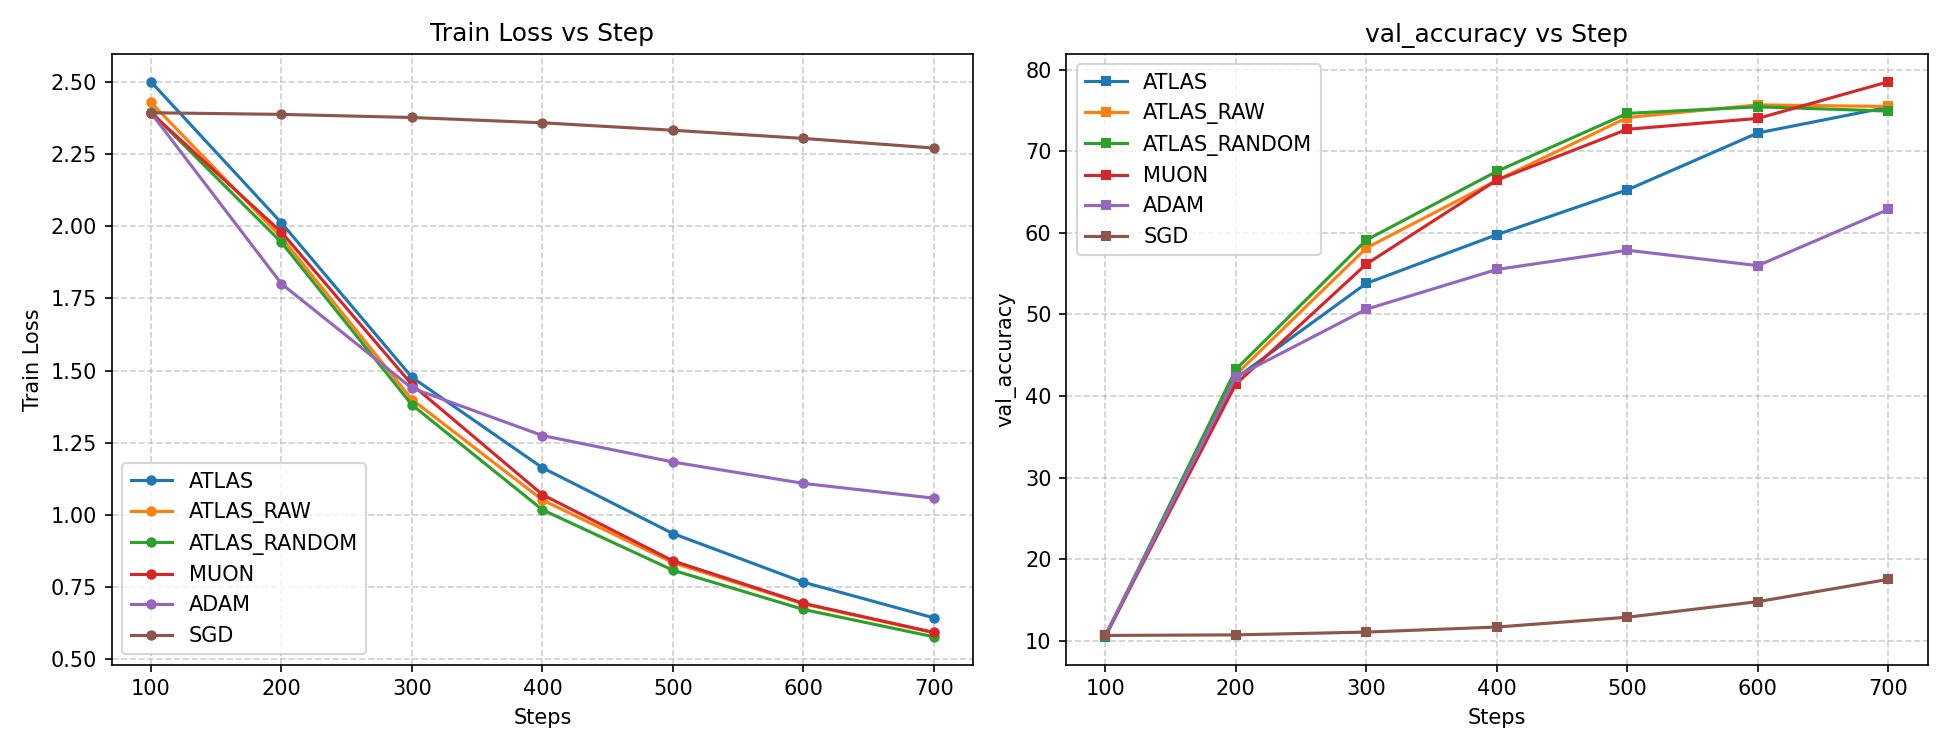
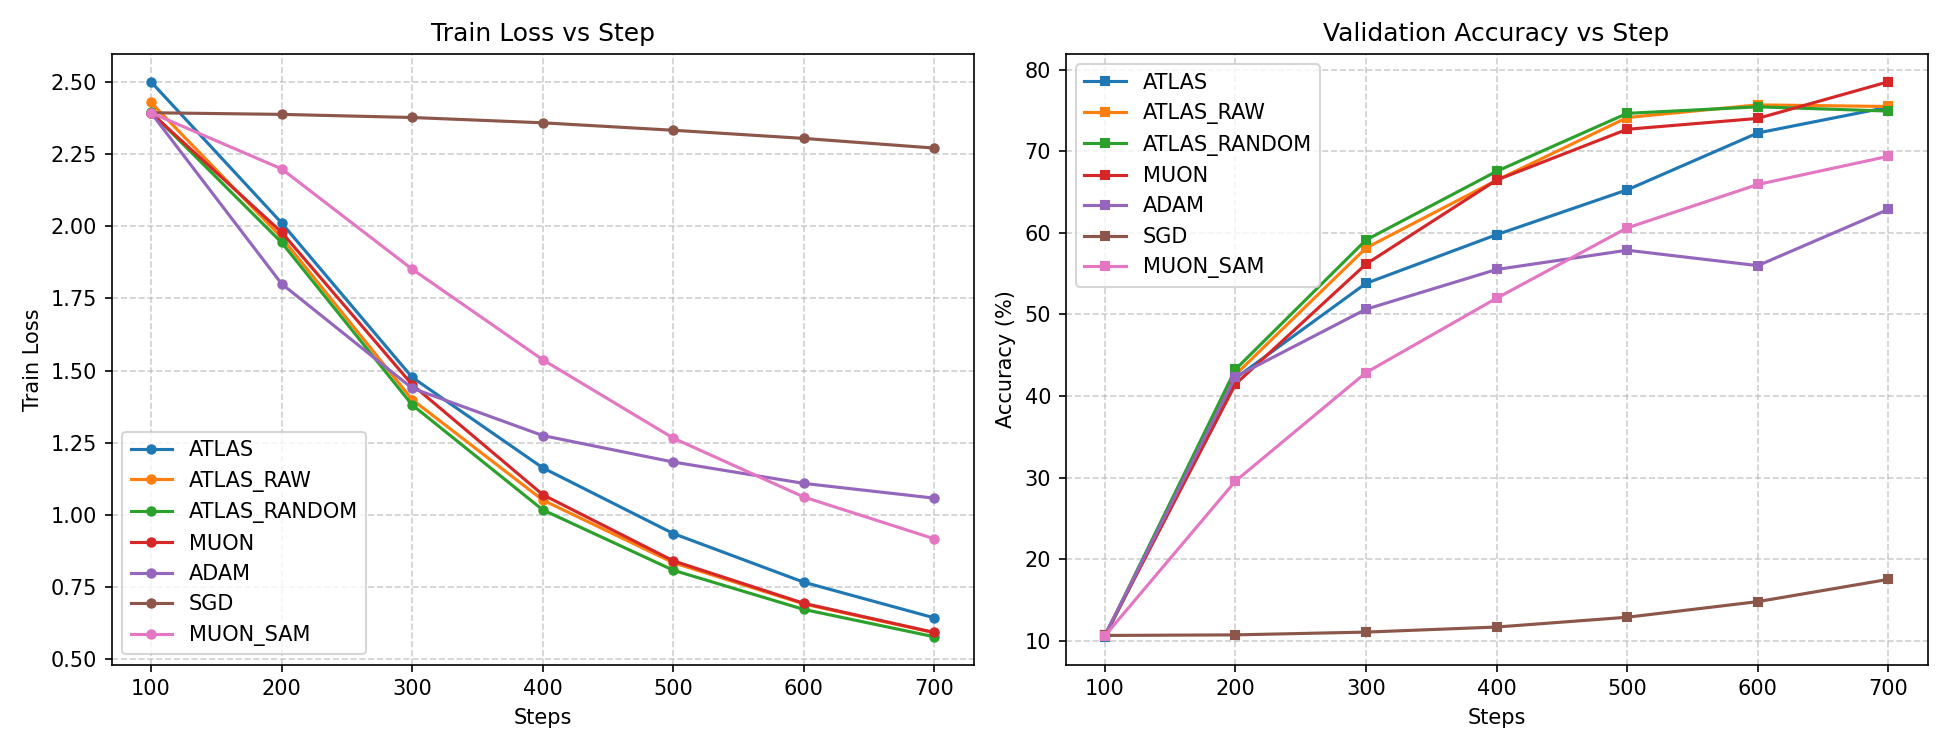
updated logs with sgd and muonsam

diff --git a/merge_logs.py b/merge_logs.py
@@ -1,0 +1,101 @@
+import os
+import pandas as pd
+import matplotlib.pyplot as plt
+
+def merge_and_plot():
+    os.chdir('final_logs')
+    
+    # 1. Merge CIFAR-10
+    if os.path.exists('run1_cifar10_logs.csv') and os.path.exists('run1_muonsam_cifar10_logs.csv'):
+        df_main = pd.read_csv('run1_cifar10_logs.csv')
+        df_muon = pd.read_csv('run1_muonsam_cifar10_logs.csv')
+        # Remove any existing muon_sam just in case
+        df_main = df_main[df_main['optimizer'] != 'muon_sam']
+        df_merged = pd.concat([df_main, df_muon], ignore_index=True)
+        df_merged.to_csv('run1_cifar10_logs.csv', index=False)
+        print("Merged CIFAR-10")
+
+    # 2. Merge NanoGPT
+    if os.path.exists('run2_nanogpt_logs.csv'):
+        df_main = pd.read_csv('run2_nanogpt_logs.csv')
+        
+        # Remove old SGD (matches sgd or sgd_euclidean)
+        df_main = df_main[~df_main['optimizer'].str.contains('sgd', na=False)]
+        
+        # Add new SGD fixed
+        if os.path.exists('run2_sgd_fixed_logs.csv'):
+            df_sgd = pd.read_csv('run2_sgd_fixed_logs.csv')
+            df_main = pd.concat([df_main, df_sgd], ignore_index=True)
+            
+        # Add muon_sam
+        if os.path.exists('run2_muonsam_nanogpt_logs.csv'):
+            df_muon = pd.read_csv('run2_muonsam_nanogpt_logs.csv')
+            df_main = df_main[df_main['optimizer'] != 'muon_sam']
+            df_main = pd.concat([df_main, df_muon], ignore_index=True)
+            
+        df_main.to_csv('run2_nanogpt_logs.csv', index=False)
+        print("Merged NanoGPT")
+
+    # 3. Merge Pythia
+    if os.path.exists('run3_pythia_logs.csv'):
+        df_main = pd.read_csv('run3_pythia_logs.csv')
+        
+        # Remove old SGD
+        df_main = df_main[~df_main['optimizer'].str.contains('sgd', na=False)]
+        
+        # Add new SGD fixed
+        if os.path.exists('run3_sgd_fixed_logs.csv'):
+            df_sgd = pd.read_csv('run3_sgd_fixed_logs.csv')
+            df_main = pd.concat([df_main, df_sgd], ignore_index=True)
+            
+        # Add muon_sam
+        if os.path.exists('run3_muonsam_pythia_logs.csv'):
+            df_muon = pd.read_csv('run3_muonsam_pythia_logs.csv')
+            df_main = df_main[df_main['optimizer'] != 'muon_sam']
+            df_main = pd.concat([df_main, df_muon], ignore_index=True)
+            
+        df_main.to_csv('run3_pythia_logs.csv', index=False)
+        print("Merged Pythia")
+
+    # Now replot them!
+    main_files = ['run1_cifar10_logs.csv', 'run2_nanogpt_logs.csv', 'run3_pythia_logs.csv']
+    for csv_file in main_files:
+        if not os.path.exists(csv_file): continue
+        df = pd.read_csv(csv_file)
+        
+        if "step" not in df.columns:
+            df["step"] = df["epoch"] * 100
+            df.to_csv(csv_file, index=False)
+            
+        fig, ax = plt.subplots(1, 2, figsize=(13, 5), dpi=150)
+        optimizers = df["optimizer"].unique()
+        for opt in optimizers:
+            opt_data = df[df["optimizer"] == opt]
+            ax[0].plot(opt_data["step"], opt_data["train_loss"], label=opt.upper(), marker='o', markersize=4)
+            
+            if "val_perplexity" in df.columns and (opt_data["val_perplexity"] > 0).any():
+                ax[1].plot(opt_data["step"], opt_data["val_perplexity"], label=opt.upper(), marker='s', markersize=4)
+                ax[1].set_title("Validation Perplexity vs Step")
+                ax[1].set_ylabel("Perplexity")
+            else:
+                ax[1].plot(opt_data["step"], opt_data["val_accuracy"], label=opt.upper(), marker='s', markersize=4)
+                ax[1].set_title("Validation Accuracy vs Step")
+                ax[1].set_ylabel("Accuracy (%)")
+
+        ax[0].set_title("Train Loss vs Step")
+        ax[0].set_xlabel("Steps")
+        ax[0].set_ylabel("Train Loss")
+        ax[0].legend()
+        ax[0].grid(True, linestyle="--", alpha=0.6)
+
+        ax[1].set_xlabel("Steps")
+        ax[1].legend()
+        ax[1].grid(True, linestyle="--", alpha=0.6)
+
+        plt.tight_layout()
+        plot_name = csv_file.replace("_logs.csv", "_steps_plot.png")
+        plt.savefig(plot_name)
+        print(f"Generated new plot: {plot_name}")
+
+if __name__ == '__main__':
+    merge_and_plot()
